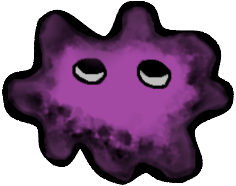
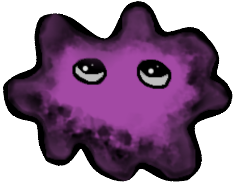
updated alien animation + images, updated bullet shooting (now more time in between shots)

diff --git a/maze/game/entities/character_entity.py b/maze/game/entities/character_entity.py
@@ -3,93 +3,88 @@ from maze.game.entities.bullet_entity import BulletEntity
 import pygame
 from pygame import mixer
 
+
 class CharacterEntity(Entity):
     def __init__(self, game):
         super().__init__(game)
-        self.character1 = pygame.image.load("data/images/character1.png")
-        self.character2 = pygame.image.load("data/images/character2.png")
-        self.character3 = pygame.image.load("data/images/character3.png")
-        self.character4 = pygame.image.load("data/images/character4.png")
-        self.counter = 0
+        self.characters = [pygame.image.load("data/images/character1.png"),
+                           pygame.image.load("data/images/character2.png"),
+                           pygame.image.load("data/images/character3.png"),
+                           pygame.image.load("data/images/character4.png")]
+        self.animation_length = 0.1
+        self.characters_index = 0
+        self.shooting_timer = 0.2
         self.x = 280
         self.y = 300
 
     def update(self, delta_time):
+        self.animation_length -= delta_time
+        if self.animation_length <= 0:
+            self.characters_index += 1
+            if self.characters_index == 4:
+                self.characters_index = 0
+            self.animation_length = 0.1
+
         keys = pygame.key.get_pressed()
-        speed = 400
+        character_speed = 300
+        shot_speed = 0.2
 
         # moving:
         if keys[pygame.K_w] and not keys[pygame.K_s]:
-            self.y -= speed * delta_time
+            self.y -= character_speed * delta_time
             self.rotation = 0
         if keys[pygame.K_a] and not keys[pygame.K_d]:
-            self.x -= speed * delta_time
+            self.x -= character_speed * delta_time
             self.rotation = 90
         if keys[pygame.K_s] and not keys[pygame.K_w]:
-            self.y += speed * delta_time
+            self.y += character_speed * delta_time
             self.rotation = 180
         if keys[pygame.K_d] and not keys[pygame.K_a]:
-            self.x += speed * delta_time
+            self.x += character_speed * delta_time
             self.rotation = 270
 
         # shooting:
+        self.shooting_timer -= delta_time
         if keys[pygame.K_UP] and not keys[pygame.K_DOWN]:
             self.rotation = 0
-            pygame.mixer.stop()
-            bullet_sound = mixer.Sound('data/sounds/laser.wav')
-            bullet_sound.play()
-            self.game.add_entity(BulletEntity(self.game, self.x, self.y - 100,
-                                              self.rotation))
-        elif keys[pygame.K_LEFT] and not keys[pygame.K_RIGHT]:
+            if self.shooting_timer <= 0:
+                pygame.mixer.stop()
+                bullet_sound = mixer.Sound('data/sounds/laser.wav')
+                bullet_sound.play()
+                self.game.add_entity(BulletEntity(self.game, self.x,
+                                                  self.y - 100, self.rotation))
+                self.shooting_timer = shot_speed
+        if keys[pygame.K_LEFT] and not keys[pygame.K_RIGHT]:
             self.rotation = 90
-            pygame.mixer.stop()
-            bullet_sound = mixer.Sound('data/sounds/laser.wav')
-            bullet_sound.play()
-            self.game.add_entity(BulletEntity(self.game, self.x - 100, self.y,
-                                              self.rotation))
-        elif keys[pygame.K_DOWN] and not keys[pygame.K_UP]:
+            if self.shooting_timer <= 0:
+                pygame.mixer.stop()
+                bullet_sound = mixer.Sound('data/sounds/laser.wav')
+                bullet_sound.play()
+                self.game.add_entity(BulletEntity(self.game, self.x - 100,
+                                                  self.y, self.rotation))
+                self.shooting_timer = shot_speed
+        if keys[pygame.K_DOWN] and not keys[pygame.K_UP]:
             self.rotation = 180
-            pygame.mixer.stop()
-            bullet_sound = mixer.Sound('data/sounds/laser.wav')
-            bullet_sound.play()
-            self.game.add_entity(BulletEntity(self.game, self.x, self.y + 100,
-                                              self.rotation))
-        elif keys[pygame.K_RIGHT] and not keys[pygame.K_LEFT]:
+            if self.shooting_timer <= 0:
+                pygame.mixer.stop()
+                bullet_sound = mixer.Sound('data/sounds/laser.wav')
+                bullet_sound.play()
+                self.game.add_entity(BulletEntity(self.game, self.x,
+                                                  self.y + 100, self.rotation))
+                self.shooting_timer = shot_speed
+        if keys[pygame.K_RIGHT] and not keys[pygame.K_LEFT]:
             self.rotation = 270
-            pygame.mixer.stop()
-            bullet_sound = mixer.Sound('data/sounds/laser.wav')
-            bullet_sound.play()
-            self.game.add_entity(BulletEntity(self.game, self.x + 100, self.y,
-                                              self.rotation))
+            if self.shooting_timer <= 0:
+                pygame.mixer.stop()
+                bullet_sound = mixer.Sound('data/sounds/laser.wav')
+                bullet_sound.play()
+                self.game.add_entity(BulletEntity(self.game, self.x + 100,
+                                                  self.y, self.rotation))
+                self.shooting_timer = shot_speed
 
     def render(self, surface):
-        if self.counter < 20:
-            self.counter += 1
-            character = pygame.transform.rotate(self.character1, self.rotation)
-            width = character.get_size()[0]
-            height = character.get_size()[1]
-            surface.blit(character, (int(self.x - width / 2),
-                                     int(self.y - height / 2)))
-        elif self.counter < 40:
-            self.counter += 1
-            character = pygame.transform.rotate(self.character2, self.rotation)
-            width = character.get_size()[0]
-            height = character.get_size()[1]
-            surface.blit(character, (int(self.x - width / 2),
-                                     int(self.y - height / 2)))
-        elif self.counter < 60:
-            self.counter += 1
-            character = pygame.transform.rotate(self.character3, self.rotation)
-            width = character.get_size()[0]
-            height = character.get_size()[1]
-            surface.blit(character, (int(self.x - width / 2),
-                                     int(self.y - height / 2)))
-        elif self.counter >= 60:
-            self.counter = 0
-            character = pygame.transform.rotate(self.character4, self.rotation)
-            width = character.get_size()[0]
-            height = character.get_size()[1]
-            surface.blit(character, (int(self.x - width / 2),
-                                     int(self.y - height / 2)))
-
-# pygame.draw.rect(surface, (255, 255, 255), (self.x, self.y, 2, 2))
+        char = pygame.transform.rotate(self.characters[self.characters_index],
+                                       self.rotation)
+        width, height = char.get_size()[0], char.get_size()[1]
+        surface.blit(char, (int(self.x - width / 2),
+                            int(self.y - height / 2)))
